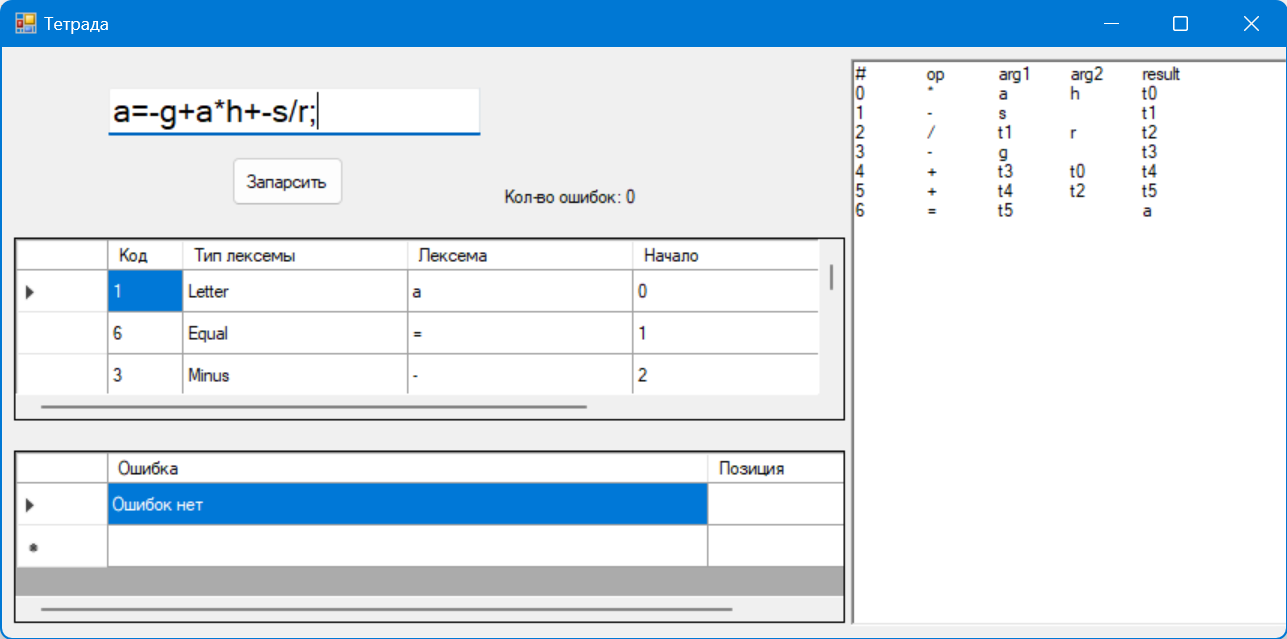
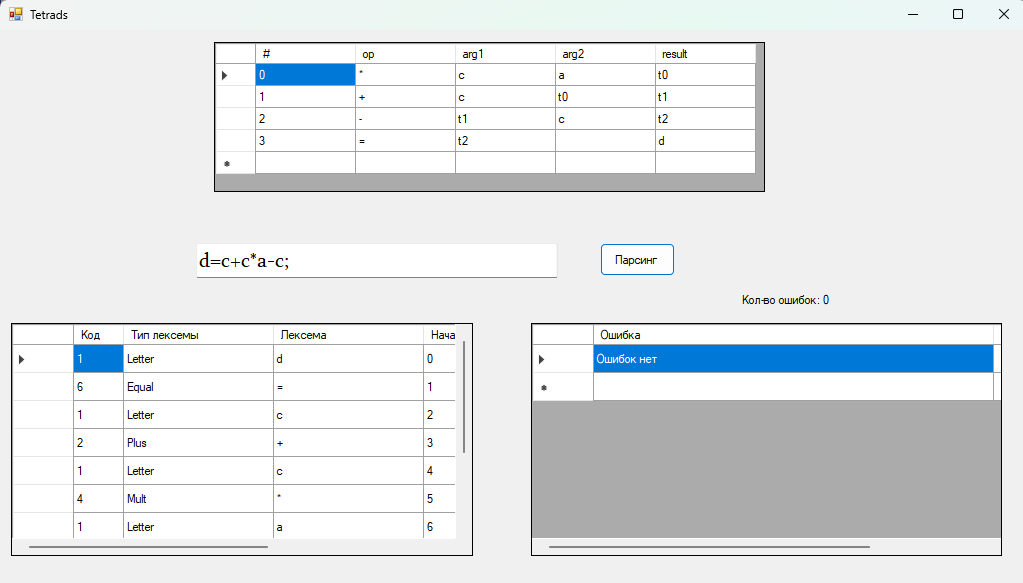
123

diff --git a/README.md b/README.md
@@ -5,17 +5,32 @@
 
 ## Цель работы: Дополнить анализатор, разработанный в рамках лабораторных работ, этапом формирования внутренней формы представления программы.
 
-## Задание: Реализовать алгоритм записи арифметического выражения в виде тетрады.
+## Задание: 2 вариант. В качестве внутренней формы представления программы выберем тетрады. Тетрада имеет четыре поля: op, arg1, arg2 и result.
+
+## Задание:
+
+## 1) Дополнить парсер грамматикой G[<АВ>]. Реализовать данную КС-граммматику методом рекурсивного спуска:
+
+1. E → TA 
+
+2. A → ε | + TA | - TA 
+
+3. T → ОВ 
+
+4. В → ε | *ОВ | /ОВ 
+
+5. О → id | (E) 
+
+## 2) Реализовать алгоритм записи выражений в форме тетрад.
 
 ## Примеры верных строк
-a=b*-c+b*c;<br>
-a=-g+a*h+-s/r;<br>
-k=-g--f+-d*-c/-c+e;<br>
+a=b-d*c;
+f=c*-d+a/d;
+d=c+c*a-c;
 
 ## Тестовые примеры
 <img src="ex1.png">
 <img src="ex2.png">
 <img src="ex3.png">
 <img src="ex4.png">
-<img src="ex5.png">
-<img src="ex6.png">
+
